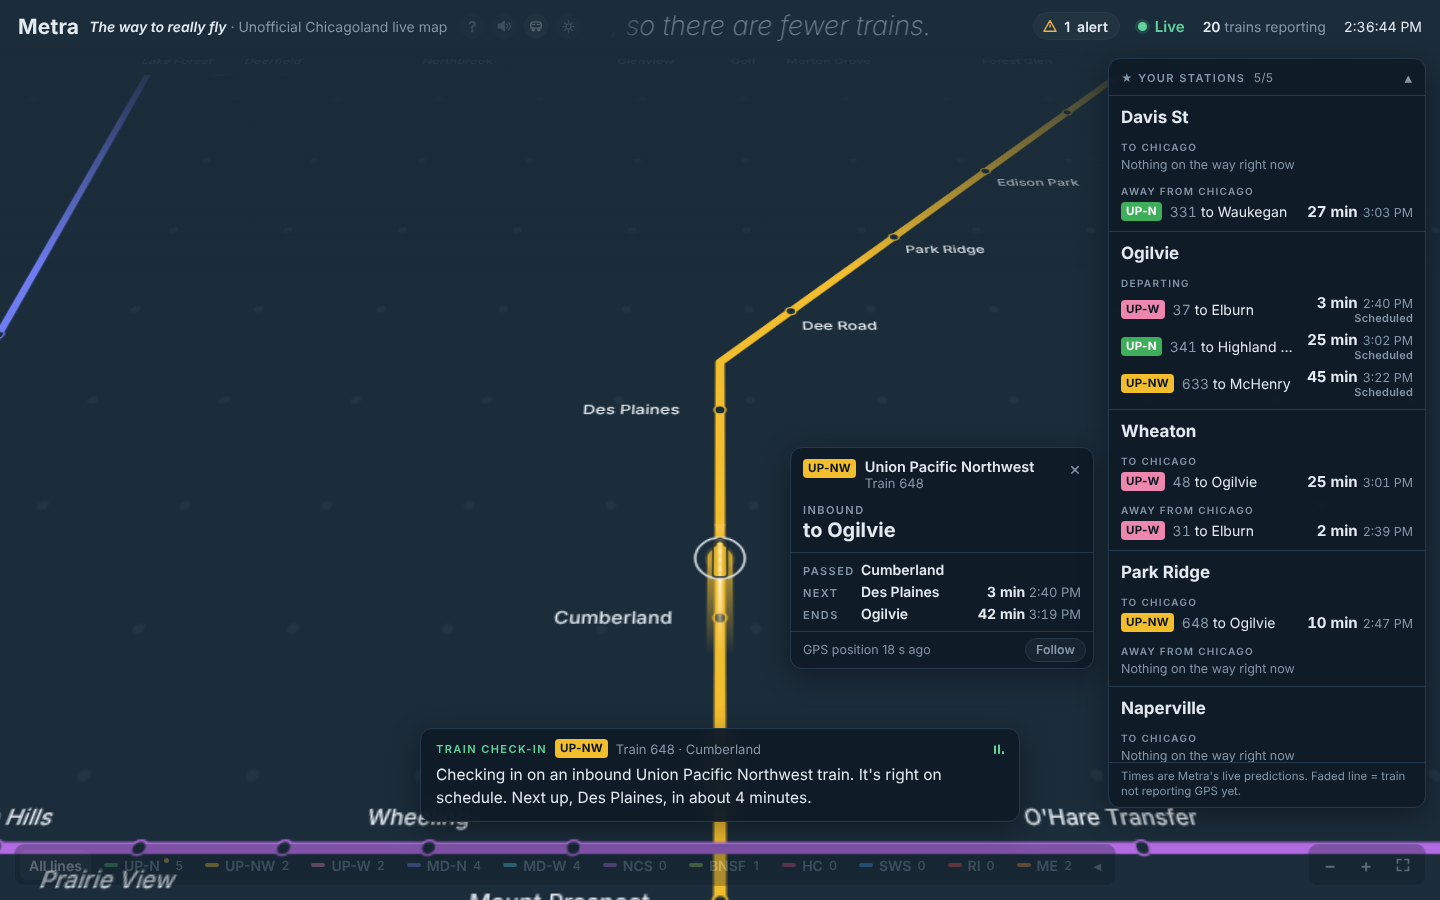
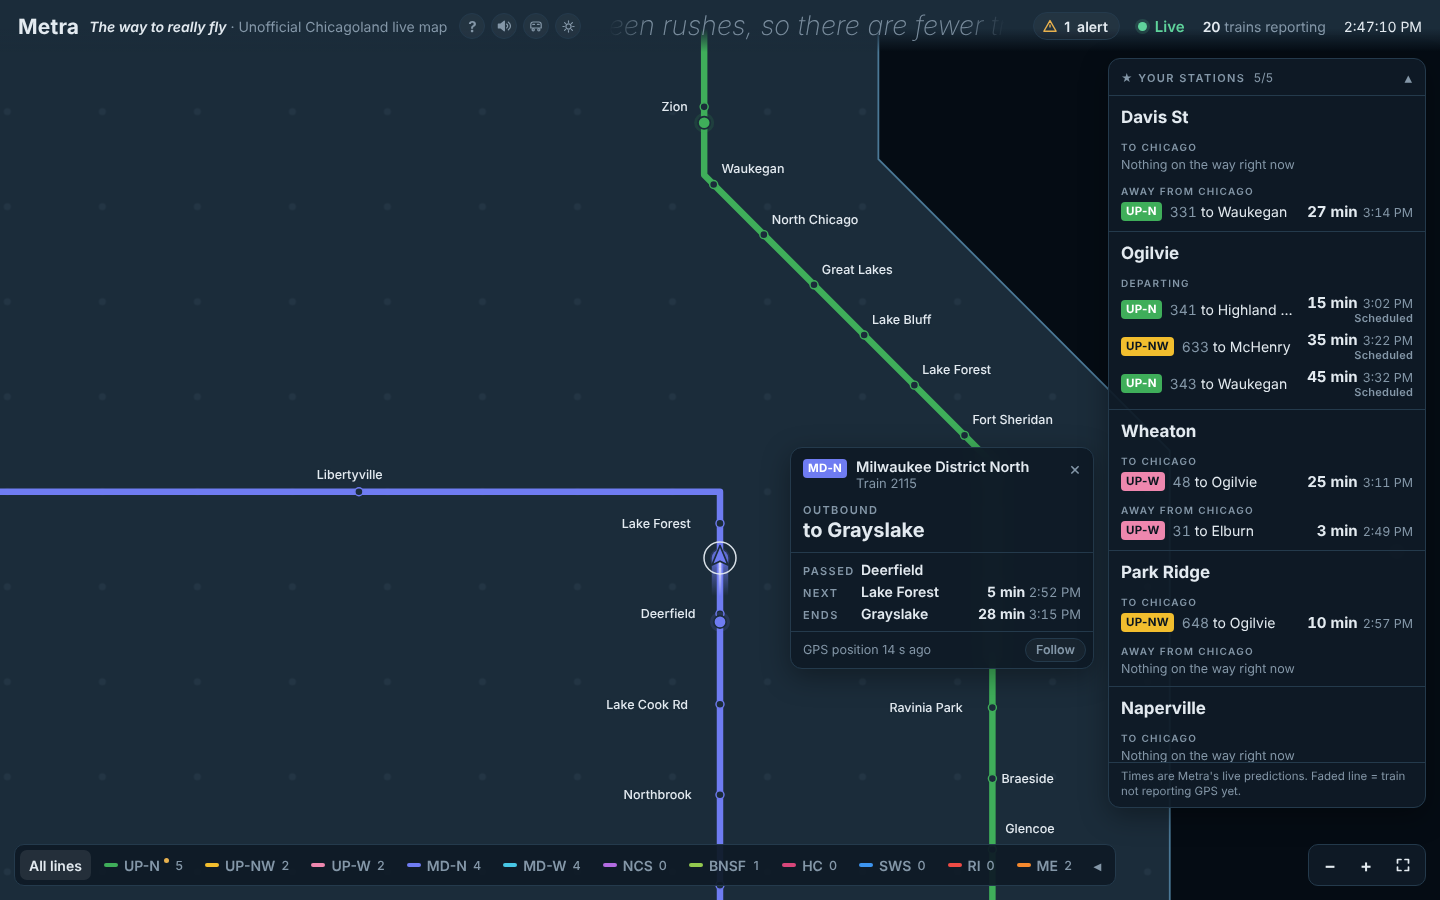
Train check-ins: voice only, no caption
Claude-Session: https://claude.ai/code/session_015yZ5M93PaviEULjR5vuC4G

diff --git a/index.html b/index.html
@@ -267,22 +267,7 @@ body.focused .focusnote{display:block}
 #sndmenu .ck{width:14px;flex:none;color:var(--ink);font-weight:700}
 #sndmenu button[aria-checked="true"] .ck::before{content:"\2713"}
 #sndmenu .sep{height:1px;background:var(--edge);margin:5px 6px}
-/* ---------- train check-ins: spoken + captioned, during train of the moment only ---------- */
-#checkin{position:absolute;left:50%;bottom:calc(78px + env(safe-area-inset-bottom,0px));width:min(600px,calc(100vw - 32px));margin-left:calc(min(600px,calc(100vw - 32px)) / -2);
-  padding:10px 15px 12px;background:var(--panel);border:1px solid var(--edge);border-radius:12px;box-shadow:var(--shadow);z-index:4;pointer-events:none;
-  -webkit-backdrop-filter:blur(10px);backdrop-filter:blur(10px)}
-#checkin.pnl{translate:0 8px} #checkin.pnl.on{translate:0 0}
-#checkin .h{display:flex;align-items:center;gap:8px;min-width:0}
-#checkin .h .kick2{color:var(--live)}
-#checkin .h .w{font-size:13px;color:var(--muted);white-space:nowrap;overflow:hidden;text-overflow:ellipsis;min-width:0}
-#checkin .vu{display:inline-flex;gap:2px;align-items:flex-end;height:11px;margin-left:auto;flex:none;opacity:0;transition:opacity .4s}
-#checkin.talk .vu{opacity:1}
-#checkin .vu i{width:2px;height:100%;border-radius:1px;background:var(--live);transform-origin:50% 100%;animation:vu .9s ease-in-out infinite}
-#checkin .vu i:nth-child(2){animation-delay:-.3s} #checkin .vu i:nth-child(3){animation-delay:-.6s}
-@keyframes vu{0%,100%{transform:scaleY(.25)}50%{transform:scaleY(1)}}
-#checkin p{margin:6px 0 0;font-size:15.5px;line-height:1.45;color:var(--ink)}
-#checkin p span{opacity:0;transition:opacity .5s ease} #checkin p span.in{opacity:1}
-@media (prefers-reduced-motion:reduce){#checkin .vu i{animation:none}}
+
 /* sonar: a radar over the Loop, one turn per data refresh */
 .radar{opacity:0;transition:opacity .6s ease;pointer-events:none}
 body.sonar .radar{opacity:1}
@@ -565,11 +550,6 @@ button{touch-action:manipulation}
   #fstrip .n{font-size:12px;color:var(--muted);flex:none}
   body.hasfav .zoom{bottom:calc(102px + env(safe-area-inset-bottom,0px))}
 }
-@media (max-width:760px),(max-height:500px){
-  #checkin{left:8px;right:8px;width:auto;margin-left:0;bottom:auto;top:calc(70px + env(safe-area-inset-top,0px));padding:8px 12px 10px}
-  #checkin p{font-size:14.5px}}
-@media (max-height:500px) and (orientation:landscape){
-  #checkin{left:auto;right:calc(8px + env(safe-area-inset-right,0px));width:min(440px,calc(54vw - 28px));top:calc(50px + env(safe-area-inset-top,0px))}}
 @media (max-width:480px){ #updated{display:none}
   .ops>span:has(#count){display:none} .state.live #stateText{display:none}
   .mark{gap:8px} .mark .tools{gap:5px} .ops{gap:9px} }
@@ -638,7 +618,6 @@ button{touch-action:manipulation}
 </div>
 
 <div id="card" class="pnl" role="dialog" aria-label="Train details"></div>
-<div id="checkin" class="pnl" role="status" aria-live="polite"></div>
 <div id="spop" class="pnl" role="dialog" aria-label="Station"></div>
 <section id="board" aria-label="Your stations"></section>
 <section id="rcard" class="pnl" aria-label="Today's report card"></section>
@@ -2343,9 +2322,9 @@ document.addEventListener("visibilitychange",()=>{if(document.hidden&&chase)fini
    During train of the moment (never a train you picked yourself), a soft voice checks in on the train,
    like a weather stream's camera check-ins: which train, how it's running, what's next. Every phrase was
    recorded ahead of time (tools/build_voice.py, a free open-source voice) and is stitched together here,
-   so nothing is generated live. The same words show as a caption. Toggle: sound menu → Train check-ins.
+   so nothing is generated live. Voice only, no caption. Toggle: sound menu → Train check-ins.
    ===================================================================== */
-const ciBox=$("checkin"),ciTog=$("ciTog");
+const ciTog=$("ciTog");
 const VO={man:null,manP:null,bufs:{},loading:{},srcs:[],timers:[],hideT:0,gen:0};
 function setCheckins(on){ciOn=on;try{localStorage.setItem(CI_KEY,on?"1":"0")}catch(_){}
   ciTog.setAttribute("aria-checked",String(on));if(on){startAudio();applySound();ciPreload()}else ciStop()}
@@ -2403,11 +2382,10 @@ function ciLines(kind,f){
     L.push({p:[["core","end_"+v]],tx:["That's the check-in. Back out to the full map.","That's all for this one. Back to the whole network.","Okay, that wraps it up. Back out to the map."][v]})}
   return L}
 function ciStop(){VO.gen++;for(const x of VO.srcs)try{x.stop()}catch(_){}VO.srcs=[];for(const x of VO.timers)clearTimeout(x);VO.timers=[];
-  clearTimeout(VO.hideT);ciBox.classList.remove("on","talk");
   if(duckG&&actx){const t=actx.currentTime;duckG.gain.cancelScheduledValues(t);duckG.gain.setTargetAtTime(1,t,.4)}}
 async function ciSay(kind,t){
   if(!ciOn||!t)return;
-  const gen=++VO.gen;for(const x of VO.srcs)try{x.stop()}catch(_){}VO.srcs=[];for(const x of VO.timers)clearTimeout(x);VO.timers=[];clearTimeout(VO.hideT);
+  const gen=++VO.gen;for(const x of VO.srcs)try{x.stop()}catch(_){}VO.srcs=[];for(const x of VO.timers)clearTimeout(x);VO.timers=[];
   await voManifest();if(gen!==VO.gen)return;
   const f=ciFacts(t),lines=ciLines(kind,f);if(!lines.length)return;
   // can we speak it? every piece must be recorded and loaded, and audio must be allowed (after a first click)
@@ -2415,26 +2393,13 @@ async function ciSay(kind,t){
   if(voice){const packs=[...new Set(lines.flatMap(l=>l.p.map(q=>q[0])))];
     const bufs=await Promise.race([Promise.all(packs.map(voPack)),new Promise(r=>setTimeout(()=>r(null),2500))]);if(gen!==VO.gen)return;
     voice=!!bufs&&bufs.every(Boolean)&&lines.every(l=>l.p.every(([pk,k])=>VO.man[pk==="core"?"core":"lines"]&&(pk==="core"?VO.man.core[k]:VO.man.lines[pk]&&VO.man.lines[pk][k])))}
-  // caption
-  if(kind!=="end"||!ciBox.classList.contains("on")){
-    const where=f.last&&STN.get(f.last.id)?nmSafe(f.last.id):"";
-    ciBox.innerHTML=`<div class="h"><span class="kick2">Train check-in</span>${bullet(t.L.key)}<span class="w">${esc([trainLabel(t),where].filter(Boolean).join(" · "))}</span>`
-      +`<span class="vu" aria-hidden="true"><i></i><i></i><i></i></span></div><p></p>`}
-  const para=ciBox.querySelector("p");if(kind==="start"||kind==="end")para.textContent="";
-  const spans=lines.map(l=>{const sp=document.createElement("span");sp.textContent=(para.textContent||para.children.length?" ":"")+l.tx;para.appendChild(sp);return sp});
-  ciBox.classList.add("on");labelsDirty=true;
-  const reveal=(sp,ms)=>VO.timers.push(setTimeout(()=>sp.classList.add("in"),ms));
-  let total;
-  if(voice){const a0=actx.currentTime+.12;let at=a0;
-    ciBox.classList.add("talk");duckG.gain.cancelScheduledValues(a0);duckG.gain.setTargetAtTime(.4,actx.currentTime,.25);
-    lines.forEach((l,i)=>{reveal(spans[i],(at-actx.currentTime)*1000);
-      for(const[pk,k]of l.p){const ix=pk==="core"?VO.man.core[k]:VO.man.lines[pk][k],src=actx.createBufferSource();
-        src.buffer=VO.bufs[pk];src.connect(voG);src.start(at,ix[0],ix[1]);VO.srcs.push(src);at+=ix[1]-.03}
-      at+=.32});
-    total=(at-actx.currentTime)*1000;duckG.gain.setTargetAtTime(1,a0+total/1000,.6);
-    VO.timers.push(setTimeout(()=>ciBox.classList.remove("talk"),total))}
-  else{let ms=150;lines.forEach((l,i)=>{reveal(spans[i],ms);ms+=900+l.tx.length*55});total=ms}
-  VO.hideT=setTimeout(()=>{ciBox.classList.remove("on","talk");labelsDirty=true},total+(kind==="end"?1500:4500))}
+  if(!voice)return;                                                        // no voice yet (before the first click): stay quiet
+  const a0=actx.currentTime+.12;let at=a0;
+  duckG.gain.cancelScheduledValues(a0);duckG.gain.setTargetAtTime(.4,actx.currentTime,.25);
+  for(const l of lines){for(const[pk,k]of l.p){const ix=pk==="core"?VO.man.core[k]:VO.man.lines[pk][k],src=actx.createBufferSource();
+      src.buffer=VO.bufs[pk];src.connect(voG);src.start(at,ix[0],ix[1]);VO.srcs.push(src);at+=ix[1]-.03}
+    at+=.32}
+  duckG.gain.setTargetAtTime(1,at,.6)}
 const nmSafe=id=>{const r=STN.get(id);return r?stnName(r):""};
 document.addEventListener("visibilitychange",()=>{if(document.hidden)ciStop()});
 

diff --git a/README.md b/README.md
@@ -106,12 +106,12 @@ Leave the page alone for 2 minutes and it turns into a screensaver:
 
 1. The camera swoops in behind a live train, turning and tilting the map so you're riding along.
 2. The train's card pops up with where it's headed and its next stop.
-3. A soft voice **checks in** on the train, and the words show as a caption.
+3. A soft voice **checks in** on the train.
 4. After about a minute it pulls back to the whole map, rests, then picks another train.
 
 Move the mouse, tap or press a key and the normal map comes right back. On phones the map turns but doesn't tilt. If your device is set to reduce motion, the screensaver stays off.
 
-<img src="docs/2026-10-08-train-of-the-moment.png" alt="Riding along behind a train, with its check-in caption" width="640">
+<img src="docs/2026-10-08-train-of-the-moment.png" alt="Riding along behind a train" width="640">
 
 ### Train check-ins
 
@@ -127,7 +127,7 @@ Like a weather stream checking in on a live camera, the voice checks in three ti
 - The background sound dips while it talks.
 - Turn it on or off in the **speaker** menu → **Train check-ins**. The page remembers your choice.
 - It only checks in during train of the moment, never on a train you picked yourself.
-- Like all sound, the voice starts after your first click. Until then you see the caption only. With check-ins off, there's neither.
+- Like all sound, the voice starts after your first click.
 
 The voice is free: every phrase was recorded once ahead of time with [Kokoro](https://github.com/thewh1teagle/kokoro-onnx), an open-source voice, and the page stitches the pieces together.
 
